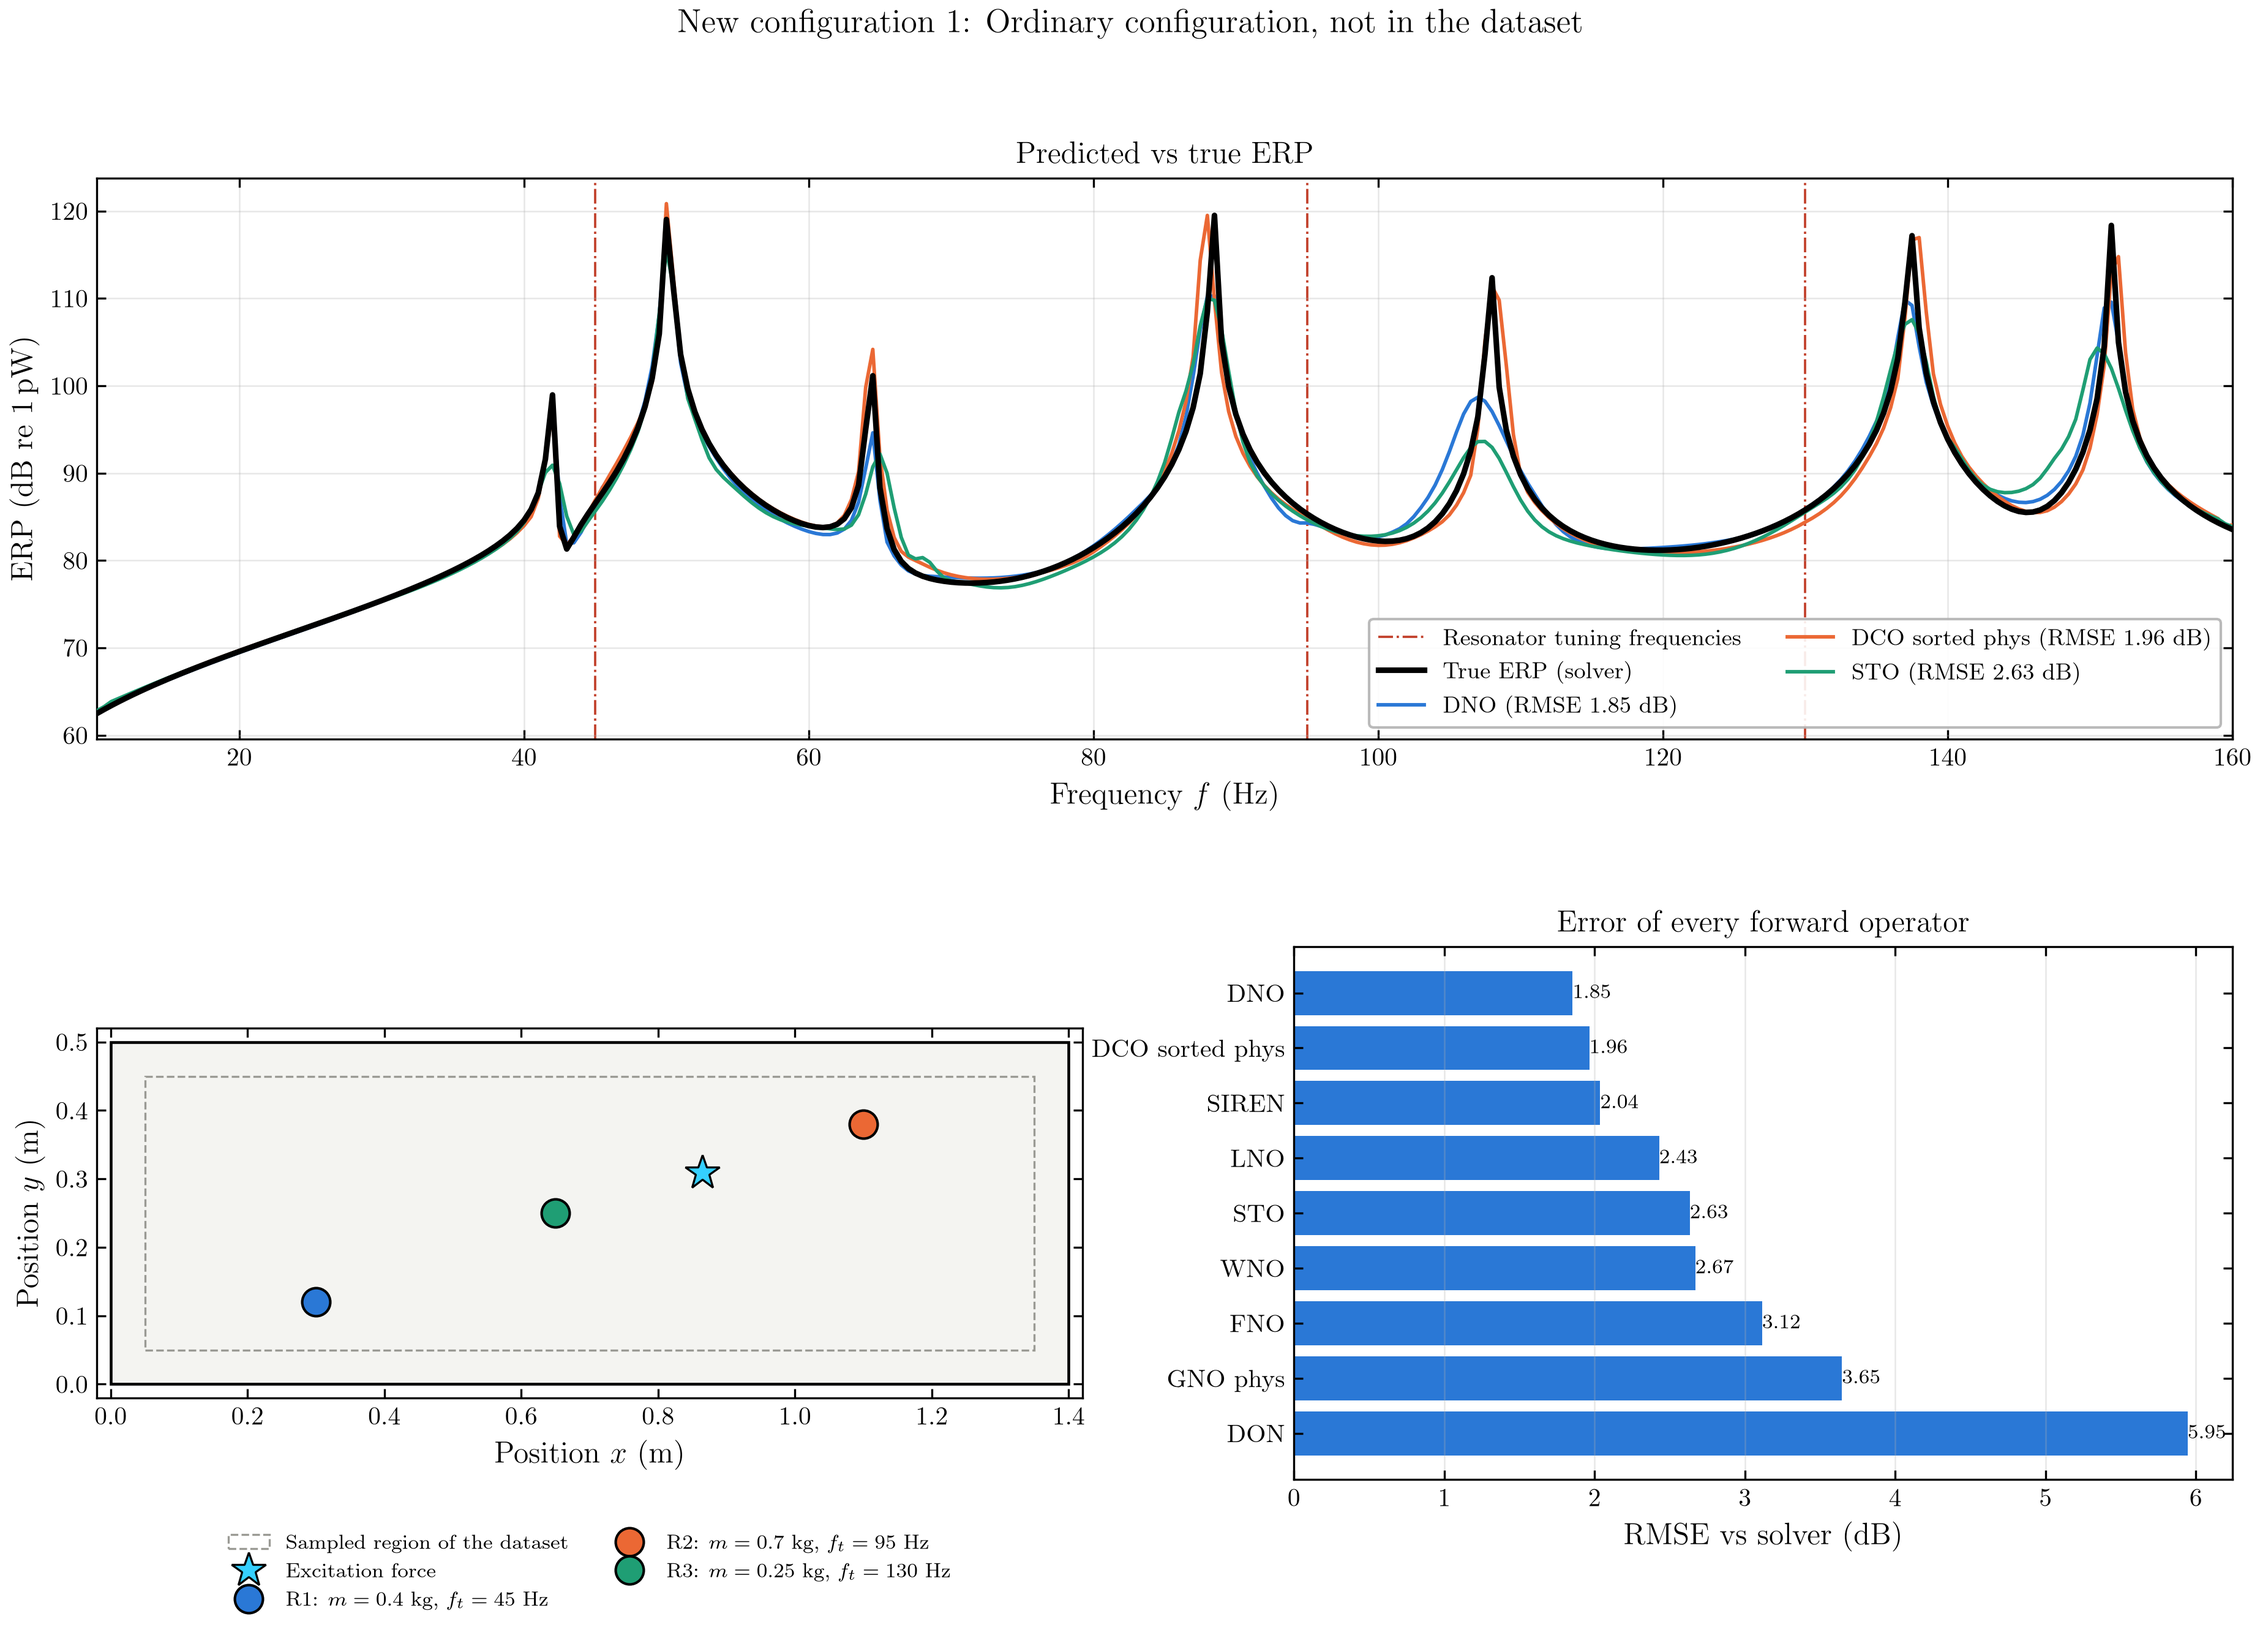
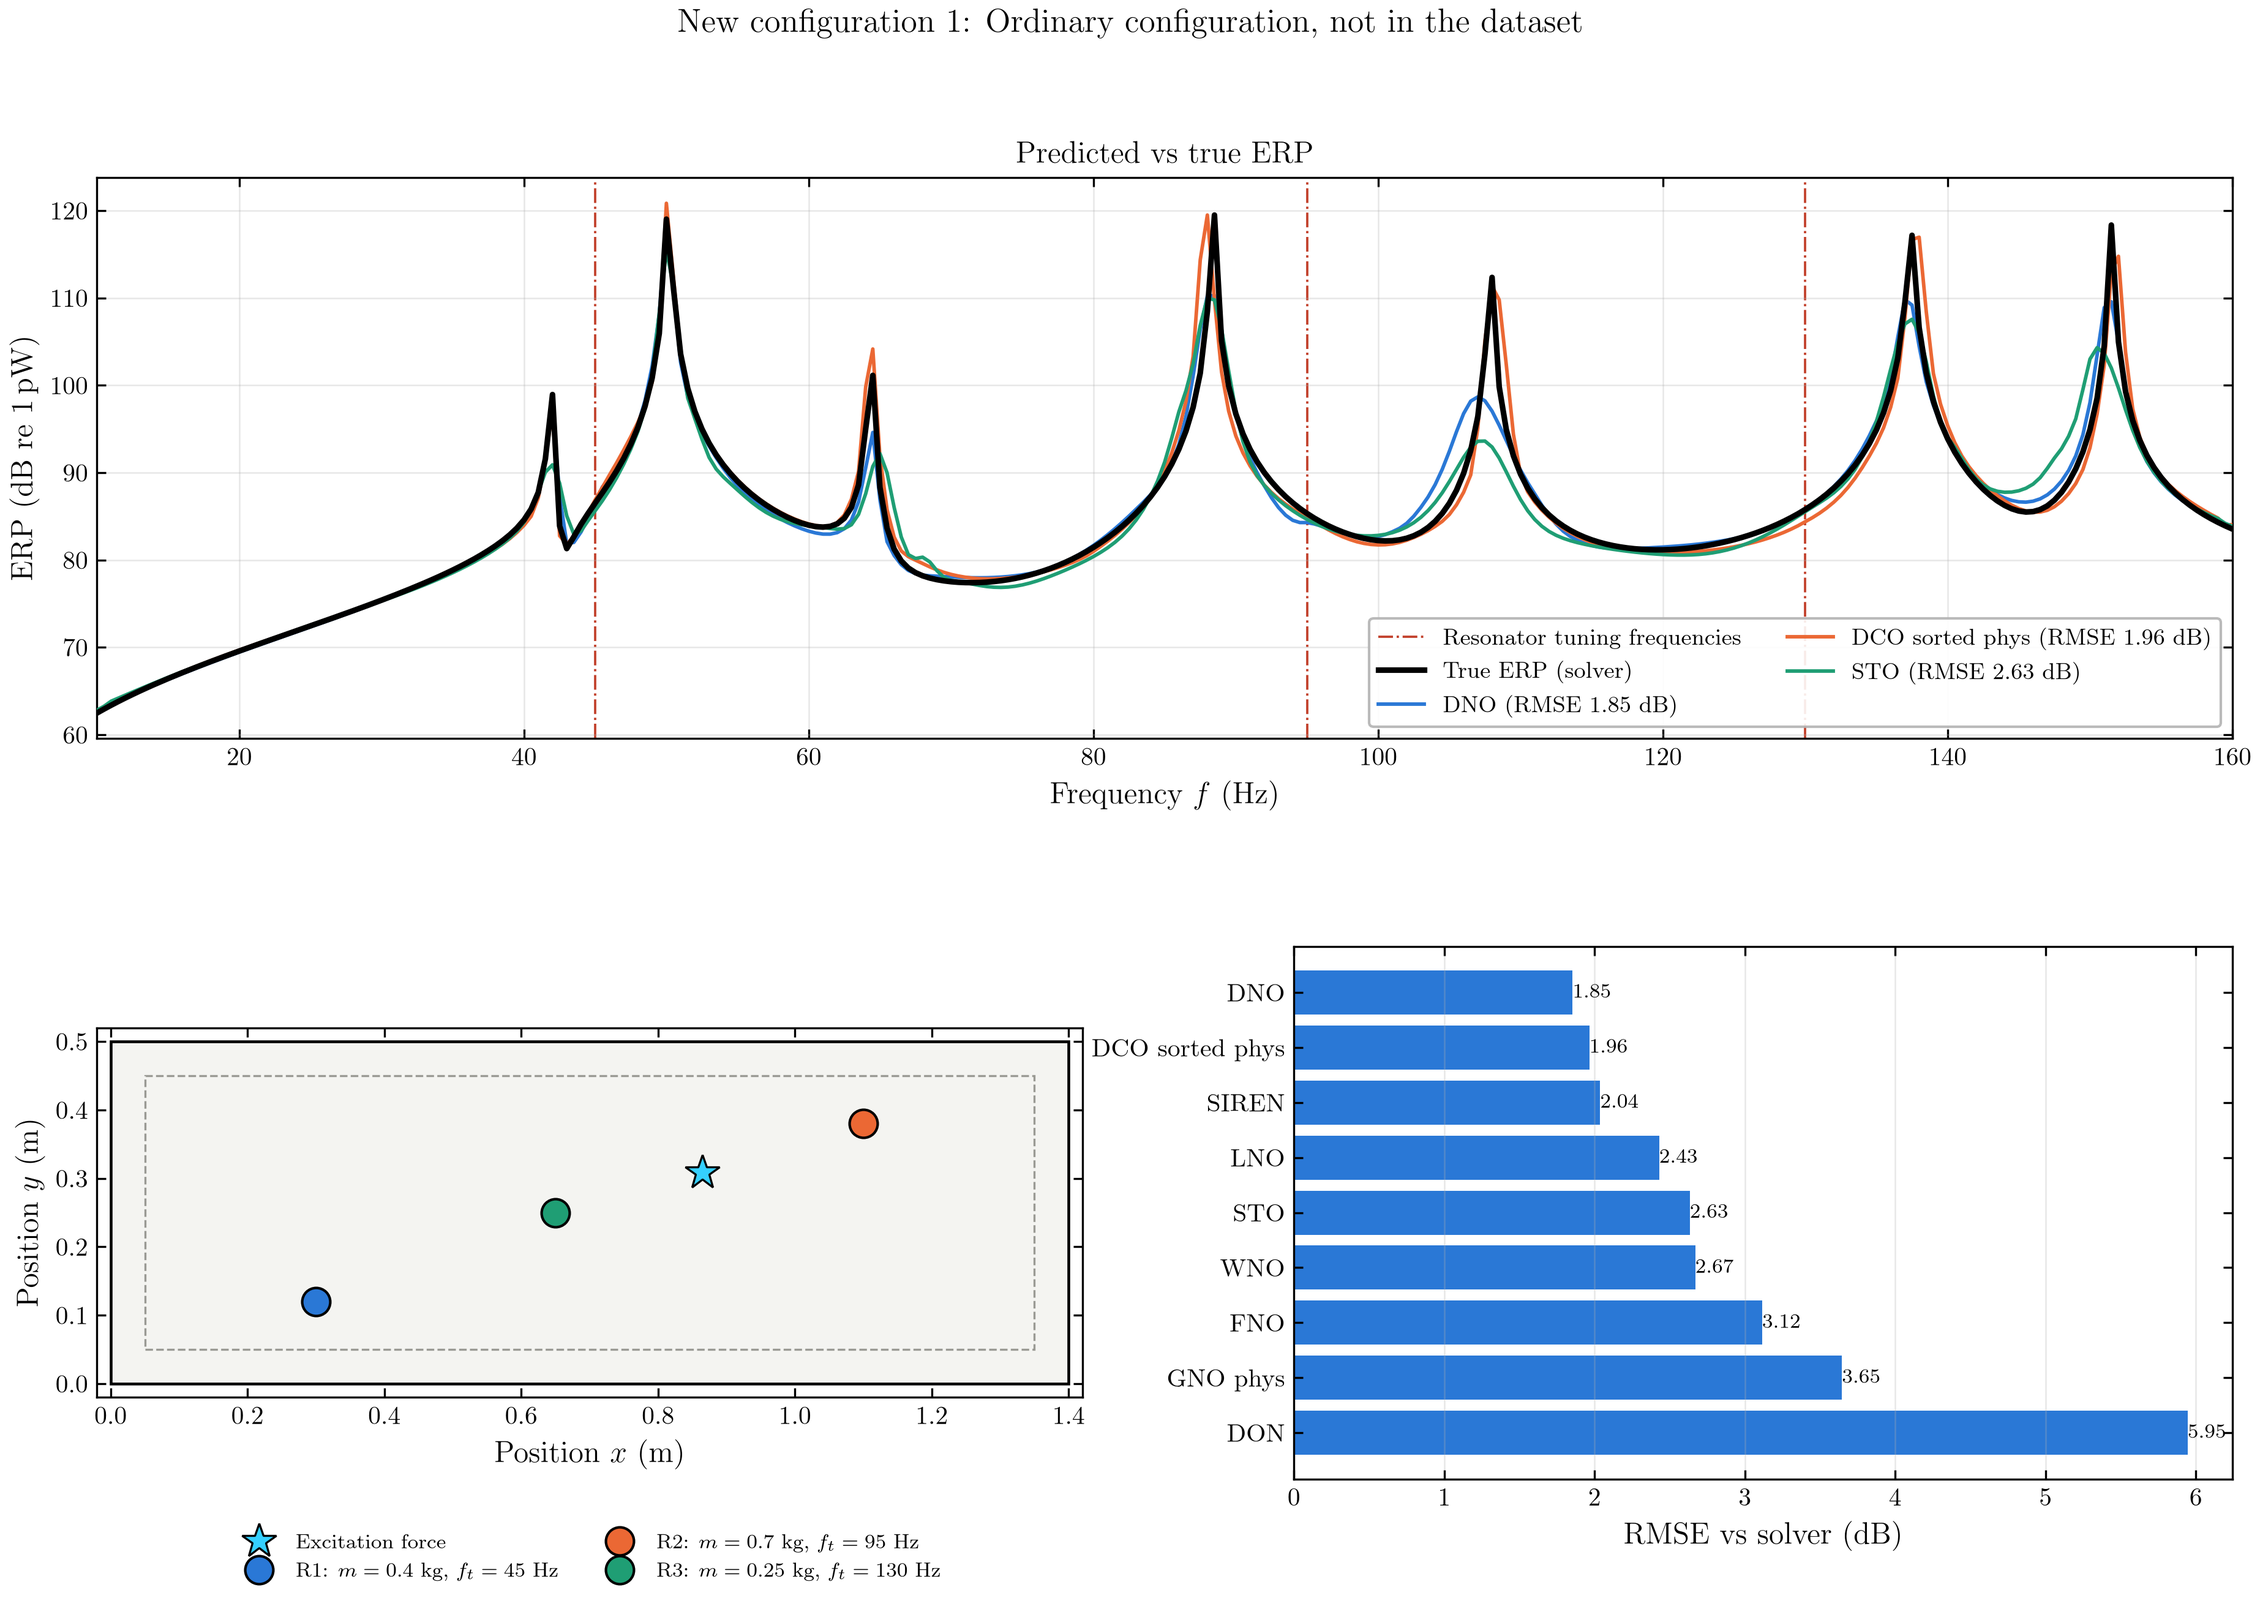
Forward new-configuration plots: drop the sampled-region legend entry and the bar-chart title
Claude-Session: https://claude.ai/code/session_012UoD9HfG7bqkJPwg3WQFh7

diff --git a/erp_forward_operators/predict_custom.py b/erp_forward_operators/predict_custom.py
@@ -96,7 +96,7 @@ def out_of_range(row) -> list[str]:
 def draw_plate(ax, configuration):
     ax.add_patch(Rectangle((0, 0), Lx, Ly, facecolor="#f4f4f1", ec="black", lw=1.1, zorder=0))
     ax.add_patch(Rectangle((edge_margin, edge_margin), Lx - 2 * edge_margin, Ly - 2 * edge_margin, fill=False,
-                           ec="#9a9a94", ls="--", lw=0.8, zorder=1, label="Sampled region of the dataset"))
+                           ec="#9a9a94", ls="--", lw=0.8, zorder=1))
     ax.plot([xf], [yf], marker="*", color="#35d0ff", ms=14, mec="black", mew=0.8, ls="", zorder=6, label="Excitation force")
     for r, (m, _, f_t, x, y) in enumerate(configuration):
         ax.plot(x, y, "o", color=RES_COLORS[r % 3], ms=11, mec="black", mew=1.0, ls="", zorder=5,
@@ -159,7 +159,6 @@ def main(configurations=CUSTOM_CONFIGURATIONS, models=MODELS) -> None:
         for y_pos, n in enumerate(order[::-1]):
             ax_bar.text(rmse[n], y_pos, f" {rmse[n]:.2f}", va="center", fontsize=8)
         ax_bar.set_xlabel("RMSE vs solver (dB)")
-        ax_bar.set_title("Error of every forward operator")
         ax_bar.grid(axis="x", alpha=0.3)
         subtitle = f"\n(extrapolation: {'; '.join(notes)})" if notes else ""
         fig.suptitle(f"New configuration {i + 1}: {title}{subtitle}", fontsize=13)
